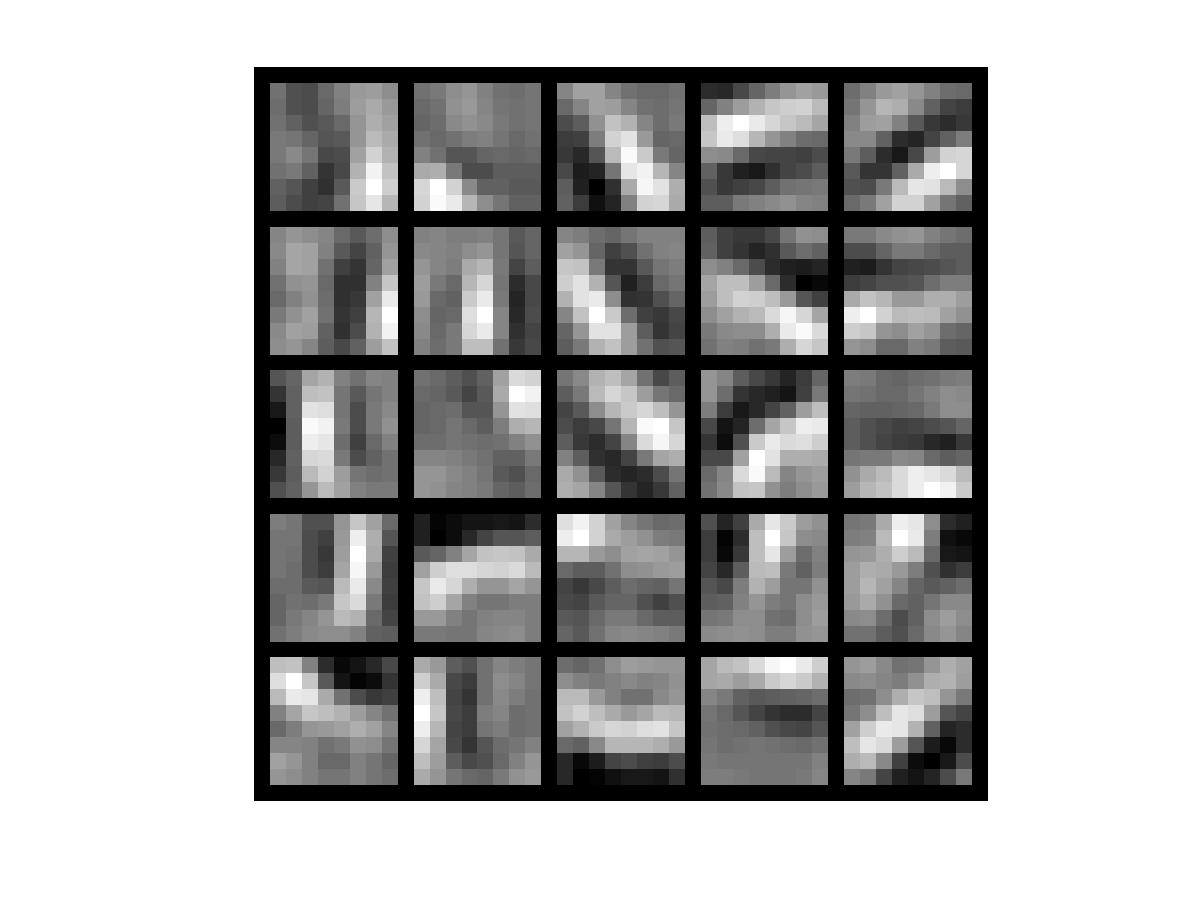
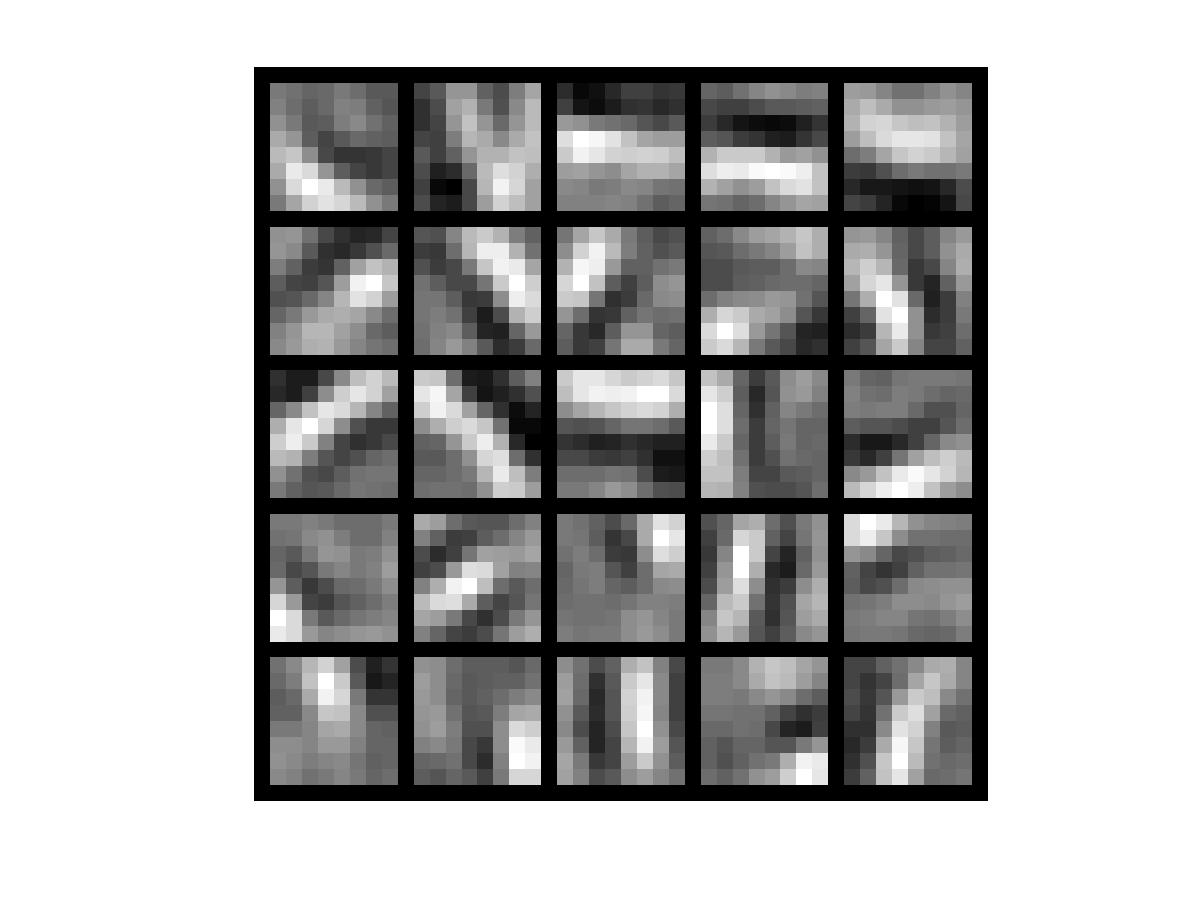
Done implementing ufldl_ex1 with GPU costfunc.

Changed region(s): [[0.2158, 0.0933, 0.8325, 0.8711], [0.8017, 0.7156, 0.8325, 0.7467]]

diff --git a/octave/ufldl_ex1.m b/octave/ufldl_ex1.m
@@ -57,7 +57,10 @@ desc.lambda = lambda;
 desc.useSoftmax = false;
 desc.spaeBeta = beta;
 desc.spaeSparsity = sparsityParam;
-desc.costMode = 3; % 3 => COST_RMS. % We should not need to specify this if beta > 0.
+% desc.costMode = 3; % 3 => COST_RMS. % We should not need to specify this if beta > 0.
+
+% Register the device resources:
+desc.id = nn_create_traits(desc);
 
 % [nn_cost, nn_grad] = nn_costfunc(desc);
 
@@ -79,7 +82,8 @@ options.useMex = 0;
 
 tic()
 
-[opttheta, cost] = minFunc( @(p) spae_costfunc(p,desc), theta, options);
+[opttheta, cost] = minFunc( @(p) spae_costfunc_dev(p,desc), theta, options);
+% [opttheta, cost] = minFunc( @(p) spae_costfunc(p,desc), theta, options);
 
 % [opttheta, cost] = minFunc( @(p) sparseAutoencoderCost(p, ...
 % [opttheta, cost] = fminunc( @(p) sparseAutoencoderCost(p, ...
@@ -89,7 +93,10 @@ tic()
                               %      beta, patches), ...
                               % theta, options);
 
+toc()
 
+% unregister the device resources:
+nn_destroy_traits(desc.id);
 
 %%======================================================================
 %% STEP 5: Visualization 
@@ -101,7 +108,6 @@ display_network(W1', 12);
 
 print -djpeg 'ufldl/ex1/weights.jpg'   % save the visualization to a file 
 
-toc()
 
 %%======================================================================
 %% STEP 5: Visualization 

diff --git a/octave/ufldl/ex1/display_network.m b/octave/ufldl/ex1/display_network.m
@@ -11,7 +11,7 @@ function [h, array] = display_network(A, opt_normalize, opt_graycolor, cols, opt
 % squareroot of the number of columns in A.
 % opt_colmajor: you can switch convention to row major for A. In that
 % case, each row of A is a filter. Default value is false.
-warning off all
+% warning off all
 
 if ~exist('opt_normalize', 'var') || isempty(opt_normalize)
     opt_normalize= true;
@@ -99,4 +99,4 @@ axis image off
 
 drawnow;
 
-warning on all
+% warning on all

diff --git a/octave/ufldl_ex1_test2.m b/octave/ufldl_ex1_test2.m
@@ -57,7 +57,7 @@ desc.lambda = lambda;
 desc.useSoftmax = false;
 desc.spaeBeta = beta;
 desc.spaeSparsity = sparsityParam;
-desc.costMode = 3; % 3 => COST_RMS.
+% desc.costMode = 3; % 3 => COST_RMS.
 
 desc.id = nn_create_traits(desc);
 

diff --git a/octave/ufldl/ex1/spae_costfunc_dev.m b/octave/ufldl/ex1/spae_costfunc_dev.m
@@ -1,0 +1,4 @@
+function [cost grads] = spae_costfunc_dev(params,desc)
+	desc.params = params;
+	[cost grads] = nn_costfunc_device(desc);
+end
